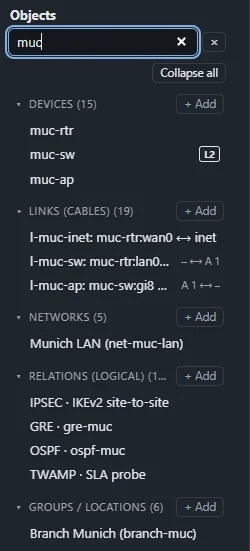
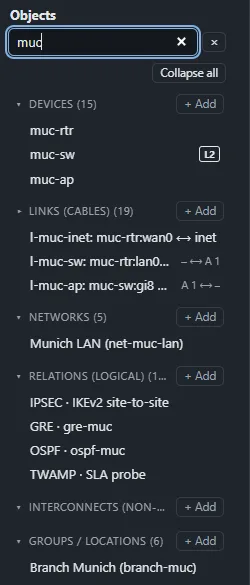
Help: the manual against 0.1.4 — applications across boot, Stop and outcomes; MQTT reconnection; policies for IP protocols without ports; tunnels and router policies in Trace path; mixed multicast members; navigation and shortcuts
- "Save and open a view" had the section id of "Navigate the Physical and
  Logical views" (both `views`): its entry in the manual's contents went to
  the other section. Now `saved-views`.
- Keyboard shortcuts: `E` (Edit tab) is no shortcut of the command
  registry and is gone; 1 / 2 (views) and F (fit) are added.
- Start applications and follow MQTT: With the simulation starts 3 s after
  the start or after the device has booted (Waiting meanwhile), once; one
  outcome per message, retries apart; Stop while the last message is on its
  way; a periodic publisher keeps its schedule across a lost connection
  (missed rounds not sent nor counted), packet identifiers 1–65535, UTF-8
  sizes. The application's Starts field says the same.
- Network policy: IP protocols without ports by `any` rules, tracked by
  address pair and protocol number; related ICMP errors belong to their
  session. Send test: a firewall's relations and Also permits apply only
  without a written policy.
- Trace path (the manual and the result's own assumptions): a router's,
  Layer 3 switch's or firewall's written policy is considered (the text said
  router ACLs are not); a tunnel's outer packet by its protocol or UDP port,
  each underlay alternative a branch; the NAT service's source translation
  is said at its hop, its port forwarding is the simulation's only.
- Experiments: waiting is for the device's boot or host, not its links.
[…]

diff --git a/src/ui/help.ts b/src/ui/help.ts
@@ -198,7 +198,7 @@ const MANUAL: Section[] = [
       '**Disable** removes a protocol and its values, after listing them; Ctrl+Z brings them back.',
       '**Routing policy** (a collapsed line on BGP, OSPF, IS-IS, EIGRP and RIP) says what the device advertises: by default every connected network, else the prefixes under **Advertise**; a **Default route** (always, or only while it has one); what it **Redistributes**; and the ordered **Import** and **Export** rules (**+ permit rule**, **+ deny rule**; action, prefix, peer, the lengths and BGP’s local preference or prepend under **More**). The first matching rule decides; a route no rule matches is denied. OSPF and IS-IS flood what they learn: they have **Import** rules only, which decide what the router installs.',
     ],
-    notes: ['The router ID and the AS number are written in the device’s box only while a protocol uses them. Nothing is filled in for you. Trace path and the simulation apply the routing policy alike; a hop’s **Why?** names a route’s origin, AS path, local preference and the rules on its way.', 'A router, Layer 3 switch or firewall has a **Network policy** card too, one collapsed line until opened: **Add a policy…** starts one with the default action you choose; its **Rules** (first match wins: action, source, destination, protocol, port; the name, source port, interfaces and zones under **More**) filter what it forwards, statefully on a firewall unless **Stateful** says otherwise. Trace path, the design checks and the simulation decide by the same rules and name the rule that decided. Without a policy a firewall keeps its relations and allow list.'],
+    notes: ['The router ID and the AS number are written in the device’s box only while a protocol uses them. Nothing is filled in for you. Trace path and the simulation apply the routing policy alike; a hop’s **Why?** names a route’s origin, AS path, local preference and the rules on its way.', 'A router, Layer 3 switch or firewall has a **Network policy** card too, one collapsed line until opened: **Add a policy…** starts one with the default action you choose; its **Rules** (first match wins: action, source, destination, protocol, port; the name, source port, interfaces and zones under **More**) filter what it forwards, statefully on a firewall unless **Stateful** says otherwise. IP protocols without ports (GRE, ESP …) are decided by rules with protocol *any* (else the default action) and tracked by their address pair and protocol number, so one protocol’s session never lets another through; an ICMP error about a session’s packet (Fragmentation Needed, Packet Too Big …) belongs to that session. Trace path, the design checks and the simulation decide by the same rules and name the rule that decided. Without a policy a firewall keeps its relations and allow list.'],
     figures: [['protocols', 'r3’s Protocols card: the suggestion to enable OSPF, BGP with its AS number, and Enable a protocol.']],
   },
   {
@@ -264,7 +264,7 @@ const MANUAL: Section[] = [
     figures: [['spof', 'Single points of failure for the enterprise WAN: the internet cloud and the uplinks first, with what each cuts off and the relations that go down.']],
   },
   {
-    id: 'views',
+    id: 'saved-views',
     title: 'Save and open a view',
     steps: [
       'Choose **Find → Saved views…**. The window says what is on screen (the diagram, a focus, the filters, the zoom).',
@@ -288,7 +288,7 @@ const MANUAL: Section[] = [
       'On the **right**: the selected step. What it does or observes; **When**: after the start, or after an earlier action is *submitted* (a time never promises that a prerequisite has happened); its **target** and fields, each said when required and missing. An action that lasts — a failure, a shut interface, a power-off, flapping, a stream, an application — has **For**: it is undone after that long; an instantaneous one (a join, a send) has none. An observation states what it **expects** and its **Window**, with what each verdict means and what it reads in the simulation.',
       'What an observation can read: a delivery (a send’s, an application’s, a receiver’s multicast datagrams with **At least**, an MQTT subscriber’s publications on a **Topic**), a device’s state (operational, booting, on, off), an interface or a cable, an **address acquired** (DHCPv4, SLAAC or DHCPv6), a **neighbor resolved** (ARP or neighbor table), a **route available**, a **protocol session established** (OSPF, BGP …, with a peer), a router’s multicast membership, a **timing state** (PTP or NTP synchronized: a protocol state, not an accuracy), a communication, and the saved expectations. A state is satisfied as soon as it holds in its window — *already so* when the window opened, or *reached at* the moment the result names; traffic is counted until the window ends (what was sent is not what arrived).',
       'At the **bottom**: before a run, a short summary (start, duration, actions, observations, scope), what is still missing, and what it will do in order. **Run** plays it in the diagram with the simulation’s own dots, labels and packet inspector — only the experiment’s traffic is shown: its actions’ messages and what they need on the way (a host’s DHCP, its address resolution, router discovery, a receiver’s IGMP, the protocol it observes); the rest of the network runs, hidden. The device states show **Powered off → Booting → Operational**, the action in progress is outlined, and short lines say what the run waits for (*Booting: tv (up at t = 30 s)*, *Waiting for DHCP*, *Resolving neighbor*, *Waiting for receiver delivery*). **Pause**, the speed and **Skip to result** (the rest at once, the same result); **Stop**, **Reset results**, **Compare with the previous run**, **Copy result**.',
-      'After a run: each action **submitted**, **waiting** (its device was still coming up), **timed out**, **undone** or **refused** (with why) at its time; each observation’s verdict — **Satisfied**, **Violated**, **Indeterminate**, **Unsupported** — with what was found, when, and what it read; the events and the comparison. In Trace path, **Use in experiment…** adds an experiment that sends the traced communication and observes its delivery.',
+      'After a run: each action **submitted**, **waiting** (its device was still coming up: booting, or a guest waiting for its host — not its links: a message sent before a cable has come up finds no route, as on a real device), **timed out**, **undone** or **refused** (with why) at its time; each observation’s verdict — **Satisfied**, **Violated**, **Indeterminate**, **Unsupported** — with what was found, when, and what it read; the events and the comparison. In Trace path, **Use in experiment…** adds an experiment that sends the traced communication and observes its delivery.',
     ],
     figures: [['experiments', 'A cold start of the private house playing in the Experiments workspace: the sequence and its start on the left, only the experiment’s traffic in the diagram, the progress, what it waits for and the verdicts so far at the bottom.']],
     notes: ['Experiments run on the shared simulation engine, on scenario time only, from their defined start: every step is an event of the simulation’s clock, so a run gives the same result played, skipped or run again. Hidden traffic still runs and never holds the run or its display back. A narrower scope runs fewer devices: what it leaves out (load on a shared link, other hosts) is not modeled, and the run says how many devices it ran. Finishing the sequence proves nothing — only observations do. Not measured: convergence time, throughput, synchronization accuracy. The format is in docs/FORMAT.md (experiments).'],
@@ -414,9 +414,9 @@ const MANUAL: Section[] = [
     ],
     notes: [
       'Endpoints can send test traffic by themselves: turn on **Endpoint test traffic** under Layer 4 (or in an endpoint’s Simulation section). They ping their gateway and test the servers of their service relations every few seconds.',
-      'Which ports a server listens on: its **Listening services**, else the ports of the relations it serves. A firewall passes the model’s relations and what its **Also permits** list allows; anything else it drops, or rejects.',
+      'Which ports a server listens on: its **Listening services**, else the ports of the relations it serves. Without a written network policy, a firewall passes the model’s relations and what its **Also permits** list allows; anything else it drops, or rejects. With one, its rules decide (see *Run routing protocols on a device*).',
     ],
-    figures: [['send-test', 'Network events: its actions; Send network packets open for a unicast series: the delivery type first, the source and its interface (name - address), the destination and its one interface shown, UDP with its port, ten messages a second apart.'], ['active-events', 'Active events, the newest on top: two multicast streams side by side, each a datagram every second of real time with its receivers and Stop stream; below them a series of ten pings in progress: its state, the messages sent of those requested, the outcome bar, Stop and its details.'], ['packet-inspector', 'The packet inspector for a TCP SYN on its way, with Follow message: the Ethernet header with its MAC addresses, the IPv4 header with TTL and Don’t Fragment, the TCP ports and flags.']],
+    figures: [['send-test', 'Network events: its actions; Send network packets open for a unicast series: the delivery type first, the source and its interface (name - address), the destination and its one interface shown, UDP with its port, ten messages a second apart.'], ['active-events', 'Active events, the newest on top: two multicast streams side by side, each a datagram every second of simulated time with its receivers and Stop stream; below them a series of ten pings in progress: its state, the messages sent of those requested, the outcome bar, Stop and its details.'], ['packet-inspector', 'The packet inspector for a TCP SYN on its way, with Follow message: the Ethernet header with its MAC addresses, the IPv4 header with TTL and Don’t Fragment, the TCP ports and flags.']],
   },
   {
     id: 'services',
@@ -597,7 +597,7 @@ const MANUAL: Section[] = [
       'Their packets are drawn like those of **Send network packets**, whatever protocols and senders are ticked (a model without multicast has none to tick): the join’s IGMP / MLD reports from the host’s interface (and what they cause at once: a multicast router’s PIM Join towards the source or RP, its group-specific query after a leave), the stream’s datagrams from its source and each copy the switches and routers make, as far as the simulation forwards them. Where they stop (a router that runs no PIM, a switch whose snooping knows no member and no router port, a VLAN’s end), the stream’s event says so. A dot opens the packet inspector; the event’s **Details** open its first message; the event log marks them **Test**.',
       'Both are listed under **Active events**. A join is *In progress* until a multicast router records the membership (*membership recorded by core1:Vlan10*), or until its reports are sent without any router recording it (*a member on its own segment only*); then it is *Completed*, and the membership stays, with **Leave group**. A stream is *In progress* (*Paused* while the simulation is) until **Stop stream**, which cancels its later datagrams; its line says its interval (*every 1 s of simulated time*), counts the datagrams its source sent (the copies multicast makes are not counted) and, apart from them, those each member received. Its source powered off, it sends nothing (*not sending: srv is off*) until it is up again. A host’s menu also leaves its groups and stops its streams, those of the model too. Fail a link on the tree: the routers’ RPF interfaces change, they join the new way and prune the old, and the members receive again.',
     ],
-    notes: ['The election follows RFC 3376 / RFC 3810 (IGMPv2 / v3, MLDv1 / v2): the lowest address wins, the startup queries and the other querier present interval as specified; IGMPv1 is not simulated. All IGMP / MLD timers run on the simulated clock (in Real time pacing it follows real time).', 'The consistency checks report a switch VLAN without a snooping choice (an error), receivers without a querier in their subnet, sparse-mode groups without a rendezvous point, and a router whose route towards a source has no PIM neighbour.', 'Snooping forwards by group: an IGMPv3 / MLDv2 member’s sources are shown in the snooping table but not filtered at the switch. A switch’s snooping querier sends IGMP queries only; IPv6 members are learned from their own reports. Memberships age in simulated time (robustness × query interval + response interval).'],
+    notes: ['The election follows RFC 3376 / RFC 3810 (IGMPv2 / v3, MLDv1 / v2): the lowest address wins, the startup queries and the other querier present interval as specified; IGMPv1 is not simulated. All IGMP / MLD timers run on the simulated clock (in Real time pacing it follows real time).', 'The consistency checks report a switch VLAN without a snooping choice (an error), receivers without a querier in their subnet, sparse-mode groups without a rendezvous point, and a router whose route towards a source has no PIM neighbour.', 'A router keeps a member of named sources (an IGMPv3 / MLDv2 join with `sources` in the model) and a member of every source apart on one LAN: while someone there wants every source, every source is forwarded; when that membership ends, only the named sources stay. No group-and-source query is sent. An IPv6 stream goes from its interface’s global address, its MLD messages from the link-local one.', 'Snooping forwards by group: an IGMPv3 / MLDv2 member’s sources are shown in the snooping table but not filtered at the switch. A switch’s snooping querier sends IGMP queries only; IPv6 members are learned from their own reports. Memberships age in simulated time (robustness × query interval + response interval).'],
     figures: [
       ['querier', 'The querier election in the internal example multicast-querier.yaml: q1 (10.5.0.1) is the elected querier of VLAN 10 (its mark beside its status); q2, a candidate with a higher address, is on standby.'],
       ['mroutes', 'r1’s multicast routes in the simulation panel: the RP, the shared tree (*, 239.1.1.1) and the sources’ trees, each with its incoming and outgoing interfaces.'],
@@ -607,12 +607,12 @@ const MANUAL: Section[] = [
     id: 'sim-apps',
     title: 'Start applications and follow MQTT',
     steps: [
-      'Applications send nothing by themselves. In **Network events**, open **Start application**, choose a **Device** (a device with only listeners is listed as *listeners only*) and its **Application**, and press **Start application**; one with *Starts: With the simulation* starts 3 s after the senders.',
-      'A client connects, sends its request and waits for the answer, with its timeout and retries; a periodic sender repeats every interval of simulated time, its count or until stopped. **Active events** shows each start as one entry with what each message came to, and its **Stop**.',
+      'Applications send nothing by themselves. In **Network events**, open **Start application**, choose a **Device** (a device with only listeners is listed as *listeners only*) and its **Application**, and press **Start application**. One with **Starts** *With the simulation* starts by itself 3 s after the simulation does — or, when its device is not operational then (booting, powered off, a guest waiting for its host), 3 s after the device has booted; meanwhile its status says *Waiting*. It starts once: a run of it still going on is not started again, also not after a reboot; a configuration problem is said and not tried again.',
+      'A client connects, sends its request and waits for the answer, with its timeout and retries; a periodic sender repeats every interval of simulated time, its count or until stopped. **Active events** shows each start as one entry with what each message came to — one outcome per message, from its last attempt (sent, or not sent because its device was off); its retries are counted apart — and its **Stop**. Stop works as long as the run is active, also while its last message is still on its way (waiting for its address, its neighbor, its connection or its answer): nothing more is sent and no retry follows; what is already on its way finishes.',
       'In ot-network.yaml start hmi-1’s *Temperatures* and plc-1’s *Telemetry*: the PLC connects to edge-1, the broker, and publishes its temperature and its pressure every 5 s; the broker forwards the temperature to the HMI (its filter *plant/cell1/+/temperature*) and the pressure to nobody. eng-ws’s *Alarm log* subscribes to a filter nothing matches and receives nothing.',
       'On the broker, **Show MQTT sessions** lists its clients and their subscriptions; on a client, **Show MQTT clients** its state, publications and what it received by topic. A message’s dot opens its inspection: its type, topic, QoS and packet id, and its payload’s size, never its contents.',
     ],
-    notes: ['MQTT 3.1.1 with clean sessions: QoS 0 and 1 (no QoS 2), keep-alives, a reconnect after a lost connection, UNSUBSCRIBE and DISCONNECT when stopped. Every message goes through the broker over TCP; nothing is IP multicast.'],
+    notes: ['MQTT 3.1.1 with clean sessions: QoS 0 and 1 (no QoS 2), keep-alives, a reconnect after a lost connection (every 5 s), UNSUBSCRIBE and DISCONNECT when stopped. A periodic publisher keeps its schedule across a lost connection: a publication that falls while it is not connected is not sent (nor counted toward its number of messages), the next one is once it is connected again. Packet identifiers run from 1 to 65535 and skip those still waiting for their acknowledgment; topics, filters and client identifiers count in UTF-8 bytes. Every message goes through the broker over TCP; nothing is IP multicast.'],
   },
   {
     id: 'sim-time',
@@ -663,8 +663,8 @@ const MANUAL: Section[] = [
       'Click a name to select it. **Copy as text** and **Save as text** carry the context, the verdict, the layers and the hops; **Evidence** beside a layer shows what it rests on in the right panel. **Clear**, `Esc` in the diagram or leaving Analyze removes the path.',
     ],
     notes: [
-      'The trace is computed from the routes and adjacencies in the model: an approximation, not a simulation of the protocols. A Security gateway’s policy, a firewall’s policy (the relations through it and its allow list, by the service), a VPN gateway’s tunnels and the paired ports of inline and pass-through devices are considered; router ACLs are not. A destination address reached is not an application that works: a listener establishes a consistent configuration, not that the application accepts or answers. Nothing in the model changes.',
-      'Virtual machines and containers: a vNIC leaves its host through its port group’s virtual switch and the uplink its teaming uses (active / standby: the first that is up; LACP: the bond), or through its passthrough port; guests on one virtual switch or one container network reach each other inside the host, listed as **inside** under the hop. Trace path applies the NAT of container bridges: traffic out of the host gets the host’s address (**SNAT**); a container behind NAT is reached from outside only at its host’s address, on a published port (**DNAT**). The NAT service’s translations (PAT, port forwarding) are applied by the simulation, not by Trace path.',
+      'The trace is computed from the routes and adjacencies in the model: an approximation, not a simulation of the protocols. A written network policy (a router’s, a Layer 3 switch’s or a firewall’s), a firewall’s implicit policy (the relations through it and its allow list, by the service), a Security gateway’s policy, a VPN gateway’s tunnels and the paired ports of inline and pass-through devices are considered. A tunnel’s outer packet is decided with its own protocol (GRE, ESP, IP-in-IP) or UDP port (WireGuard, VXLAN …), from the tunnel’s source; each equal-cost way of its underlay is an alternative of the path, for the verdict, the path MTU and the capacity. A destination address reached is not an application that works: a listener establishes a consistent configuration, not that the application accepts or answers. Nothing in the model changes.',
+      'Virtual machines and containers: a vNIC leaves its host through its port group’s virtual switch and the uplink its teaming uses (active / standby: the first that is up; LACP: the bond), or through its passthrough port; guests on one virtual switch or one container network reach each other inside the host, listed as **inside** under the hop. Trace path applies the NAT of container bridges: traffic out of the host gets the host’s address (**SNAT**); a container behind NAT is reached from outside only at its host’s address, on a published port (**DNAT**). The NAT service’s source translation (PAT, SNAT) is said at its hop; its port forwarding is applied by the simulation only.',
     ],
     figures: [['trace', 'A trace from the Munich branch to the syslog server without a service: both equal-cost paths reach it (the alternative dashed in the diagram), and the verdict says the firewall decides by service; below, the layers and the start of the hop table.']],
   },
@@ -714,11 +714,10 @@ const MANUAL: Section[] = [
 ];
 
 const SHORTCUTS: Array<[string, string]> = [
-  ['P / L', 'Physical / Logical view'],
+  ['P / L', 'Physical / Logical view (also 1 / 2)'],
   ['/', 'Find in diagram'],
   ['Ctrl+S / Ctrl+Shift+S', 'Save model / Save model as'],
   ['Ctrl+Z / Ctrl+Y', 'Undo / redo'],
-  ['E', 'Edit tab'],
   ['C', 'Connect the selected object'],
   ['I', 'Addressing overview'],
   ['Ctrl+K', 'Command palette (Cmd+K on a Mac)'],
@@ -727,7 +726,7 @@ const SHORTCUTS: Array<[string, string]> = [
   ['F6 / Shift+F6', 'The next / previous part: left panel, diagram, right panel, bottom panel, tool window'],
   ['Ctrl+K → enable', 'Enable a protocol on the selected device'],
   ['A', 'Auto-arrange: Default'],
-  ['+ / − / 0', 'Zoom in / out / fit'],
+  ['+ / − / 0', 'Zoom in / out / fit (also F)'],
   ['Esc', 'Clear the selection, cancel, close a tool window; in the diagram: end a trace or focus, then leave Analyze, Experiments or a simulation'],
 ];
 

diff --git a/src/model/applications.ts b/src/model/applications.ts
@@ -121,7 +121,7 @@ export const APP_PARAMS: SvcParam[] = [
   { key: 'qos', label: 'QoS', type: 'enum', when: is('mqtt_client'), options: [{ id: '0', label: '0: at most once' }, { id: '1', label: '1: at least once (PUBACK)' }], help: 'Of its publications and subscriptions (QoS 2 is not modelled). Empty: 0.' },
   { key: 'interval', label: 'Interval', type: 'duration', when: is(...SENDING), help: 'Between two messages (MQTT: publications). Empty: one message each time it is started.', placeholder: '5s' },
   { key: 'count', label: 'Messages', type: 'int', min: 1, max: 10000, when: is(...SENDING), help: 'How many it sends each time it is started (with an interval; empty: until stopped).', placeholder: 'until stopped' },
-  { key: 'start', label: 'Starts', type: 'enum', when: is(...SENDING), options: [{ id: 'manual', label: 'When started from Network events' }, { id: 'simulation_start', label: 'With the simulation' }], help: 'Empty: only when you start it from Network events (Start application).' },
+  { key: 'start', label: 'Starts', type: 'enum', when: is(...SENDING), options: [{ id: 'manual', label: 'When started from Network events' }, { id: 'simulation_start', label: 'With the simulation' }], help: 'With the simulation: by itself, 3 s after the simulation starts (or after its device has booted). Empty: only when you start it from Network events (Start application).' },
   // advanced
   { key: 'payload_size', label: 'Payload size (bytes)', type: 'int', min: 0, max: 65000, advanced: true, when: is('mqtt_client'), help: 'Of each publication’s payload (a modelling default of 64 bytes if empty).', placeholder: '64' },
   { key: 'request_size', label: 'Request size (bytes)', type: 'int', min: 1, max: 65000, advanced: true, when: is(...PEERED), help: 'Of each request or message (a modelling default if empty: 120 bytes TCP, 40 UDP).', placeholder: '120' },

diff --git a/src/analysis/trace.ts b/src/analysis/trace.ts
@@ -1746,7 +1746,7 @@ export function traceText(t: Trace, back?: Trace | null): string {
     else desc(back);
   }
   lines.push('');
-  lines.push('Model-based approximation: computed from the routes and adjacencies in the model, not a simulation of the protocols. A Security gateway’s policy, a firewall’s policy (the relations through it and its allow list, by the service you give), a VPN gateway’s tunnels and paired ports are considered; router ACLs are not; NAT for container bridges (SNAT out of the host, DNAT to published ports) and the NAT service.');
+  lines.push('Model-based approximation: computed from the routes and adjacencies in the model, not a simulation of the protocols. A written network policy (a router’s, a Layer 3 switch’s or a firewall’s), a firewall’s implicit policy (the relations through it and its allow list, by the service you give), a Security gateway’s policy, a VPN gateway’s tunnels and paired ports are considered; NAT for container bridges (SNAT out of the host, DNAT to published ports) and the NAT service’s source translation (PAT, SNAT; not its port forwarding).');
   return lines.join('\n');
 }
 
